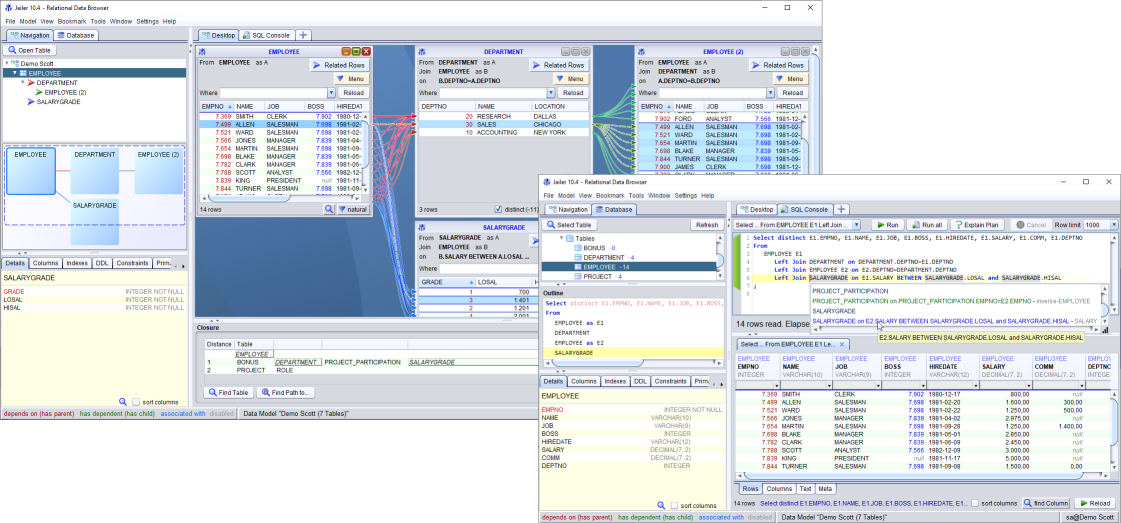
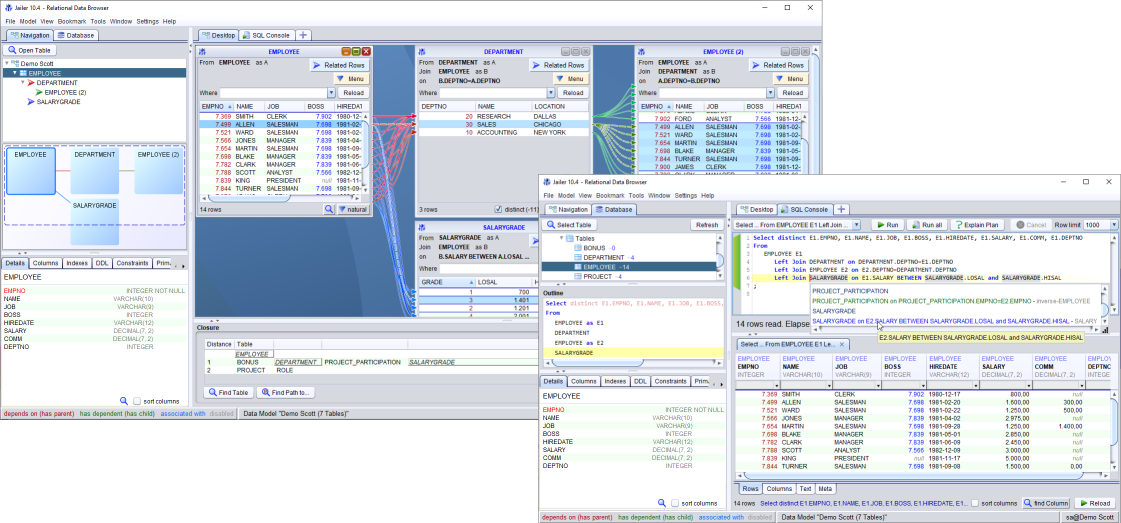
added docu

Changed region(s): [[0.0, 0.4895, 0.1873, 0.7954], [0.4683, 0.7342, 0.6557, 0.979]]

diff --git a/docs/data-browsing.html b/docs/data-browsing.html
@@ -75,111 +75,46 @@
 					</tr>
 					<tr>
 						<td class="content" height="520" valign="top" width="100%"><small><small>&nbsp;</small></small><br />
-						<span style="font-weight: bold;">Relational Data Browsing</span><br />
+						<h1>Relational Data Browsing</h1><br />
 						<br />
 						Navigate bidirectionally through the database by following foreign-key-based or user-defined relationships<br />
 						<br />
 						<a href="screenshot.html"><img src="data-browser-small.png" /></a><br />
+						<br /><h1>The Data Browser</h1>
+						("Jailer 10.4 Data Browser" or <span style="font-family: monospace;">JailerDataBrowser.sh|bat|exe</span>)
+						
+						<p><img alt="" src="db1.png" /></p>
+				<br />
+						<h1>All begins with the first table</h1>
+						
+						<p><img alt="" src="db2.png" /></p>
+<br />
+						Open Table "EMPLOYEE".
+						<p><img alt="" src="db3.png" /></p>
 						<br />
-						&nbsp;
-						<h4>1. Connect with the Database</h4>
-						Start the Data Browser (<span style="font-family: monospace;">JailerDataBrowser.exe</span> or <span style="font-family: monospace;">jailerDataBrowser.bat</span> on windows platform)
-
-						<table border="0" cellpadding="0" cellspacing="0" style="width: 100%; text-align: left;">
-							<tbody>
-								<tr>
-									<td style="vertical-align: top; background-color: rgb(230, 255, 230);"><span style="font-family: monospace;">$ sh jailerDataBrowser.sh</span></td>
-								</tr>
-							</tbody>
-						</table>
+						<h1>Where do they all work?</h1>
+						
+						Under &quot;Related Rows&quot; we find the &quot;DEPARTMENT&quot; table.
+						<p><img alt="" src="db4.png" /></p>
+						<p><img alt="" src="db5.png" /></p>
 						<br />
-						and create a new data model. Press <span style="font-style: italic;">New</span> and enter &quot;Tutorial&quot; as the name for the new model.
-
-						<p><img alt="" src="screenshot4.1.gif" style="width: 697px; height: 280px;" /></p>
-
-						<p><br />
-						A data model holds information about the tables in the database and all associations between them.<br />
-						Most of the information can be retrieved automatically by analyzing the database schema.<br />
-						<br />
-						Click on <span style="font-style: italic;">Analyze Database</span>.<br />
-						You will be asked for the database connection information.</p>
-
-						<p><img alt="" src="screenshot4.2.gif" style="width: 655px; height: 328px;" /></p>
-
-						<p>Create a new connection.</p>
-
-						<p><img alt="" src="dbs1.gif" style="width: 409px; height: 316px;" /><br />
-						&nbsp;</p>
-
-						<p>Select the DBMS you are using from the displayed list, and fill out the following form:</p>
-						<img alt="" src="screenshot4.3.gif" style="width: 570px; height: 369px;" />
-						<p><br />
-						Finally click on <span style="font-style: italic;">Connect</span><span style="font-style: italic;">.</span> Jailer finds seven tables and five associations:<br />
-						<br />
-						<img src="exporting-data-Dateien/screen3.png" /><br />
-						<br />
-						<br />
-						Two associations are still missing:</p>
-
-						<ul>
-							<li>an employee is classified into a salary grade depending on his salary</li>
-							<li>employees may receive bonuses</li>
-						</ul>
-						<br />
-						Add the definitions manually (<big><span style="font-family: monospace;"><span style="font-family: mon;"><span style="font-style: italic;">Add</span>-</span></span></big>Button under <big><span style="font-family: monospace;"><font size="4">Associations</font></span></big>):<br />
-						<br />
-						<img src="exporting-data-Dateien/screen4.png" /><br />
-						<br />
-						<img src="exporting-data-Dateien/screen42.png" /><br />
-						<br />
-						The data model is&nbsp;now complete.
-						<p>&nbsp;</p>
-
-						<h4>3. Browse a Table</h4>
-						Select the menu item &quot;Open Table&quot; from &quot;File&quot; and choose &quot;EMPLOYEE&quot; as the table you want to browse:
-
-						<p>A Table Browser appears showing the&nbsp;rows of table EMPLOYEE.</p>
-
-						<p><img alt="" src="dbs6.gif" /></p>
-
-						<h4>&nbsp;</h4>
-
-						<h4><br />
-						<br />
-						3. Browse related Rows</h4>
-						Select the &quot;Children&quot; item from the &quot;Related Rows&quot; drop-down menu and choose &quot;EMPLOYEE on inverse-BOSS&quot;.<br />
-						<br />
-						<img alt="" src="dbs8.gif" /><br />
-						<br />
-						<br />
-						Another Table Browser appears showing the subordinates of each Employee (the&nbsp;inverse of the &quot;BOSS&quot; relationship)<br />
-						<br />
-						<img alt="" src="dbs7.gif" /><br />
-						<br />
-						<br />
-						<br />
-						&nbsp;
-						<h4>3. Generate SQL-Query</h4>
-						Within each table browser, a SQL-Query can be generated which selects exactly the browser's content.<br />
-						Essentially it's a join of all the tables&nbsp;in the navigation chain.
-						<p>Close the second &quot;EMPLOYEE&quot; browser, navigate from EMPLOYEE to PROJECT_PARTICIPATION, and from there to&nbsp;PROJECT.</p>
-
-						<p>Choose &quot;<span style="font-style: italic;">Query Builder</span>&quot; item from the &quot;<span style="font-style: italic;">SQL/Query</span>&quot; menu in the &quot;PROJECT&quot; browser:</p>
-
-						<p><img alt="" src="dbs9.gif" /></p>
-
-						<p><br />
-						The Query Builder form lets you save the query into a file, copy it to the clipboard &nbsp;or even execute it.<br />
-						Choose &quot;Execute&quot; to get a query-result browser:</p>
-						<img alt="" src="dbs10.gif" style="width: 990px; height: 667px;" />
-						<p><br />
-						Within this query-result browser, you can edit the query&nbsp;anyway you want.</p>
-
-						<p><img alt="" src="dbs11.gif" style="width: 810px; height: 519px;" /></p>
-
-						<p>&nbsp;</p>
-						</td>
-					</tr>
+						<h1>And what are they actually working on?</h1>
+						In the "closure" view we can see with which tables the selected table is related. Moreover, also the relations of these and so on.
+						<br><br>
+						Select "EMPLOYEE". With a double click on "PROJECT" the table "PROJECT_PARTICIPATION" and connected to it "PROJECT" opens.
+						<p><img alt="" src="db6.png" /></p>
+						<p><img alt="" src="db7.png" /></p>
+						<br>
+						We can minimize the "PROJECT_PARTIPITATION" table to see the relationship between collaborators and projects directly.
+						<p><img alt="" src="db8.png" /></p>
+						<p><img alt="" src="db9.png" /></p>
+						<br>
+						<h1>The way to the SQL console</h1>
+						Use the menu item "Query Builder (Ctrl+Q)" to create a SQL query semi-automatically from the desktop configuration.<br>Use "SQL Console (Ctrl+Enter)" to go directly to the SQL console.
+						<p><img alt="" src="db11.png" /></p>
+						<br>
+						Within the console, we can then formulate arbitrarily complex queries and inspect the results.
+						<p><img alt="" src="db10.png" /></p>
 				</tbody>
 			</table>
 			</div>

diff --git a/src/main/engine/net/sf/jailer/JailerVersion.java b/src/main/engine/net/sf/jailer/JailerVersion.java
@@ -44,8 +44,4 @@ public class JailerVersion {
 		System.out.print(VERSION);
 	}
 
-	// TODO reduce color saturation: yellow bg in colnsole/desktop
-	
-	// TODO investigate: how to get really big? (without eating too much)
-	
 }
